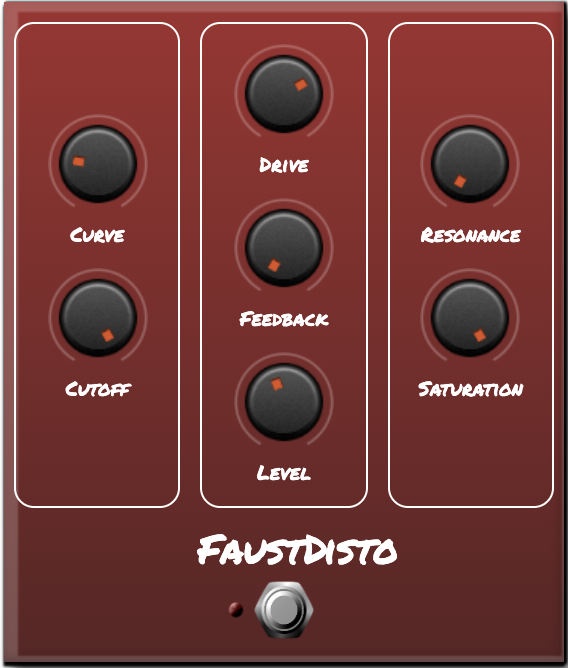
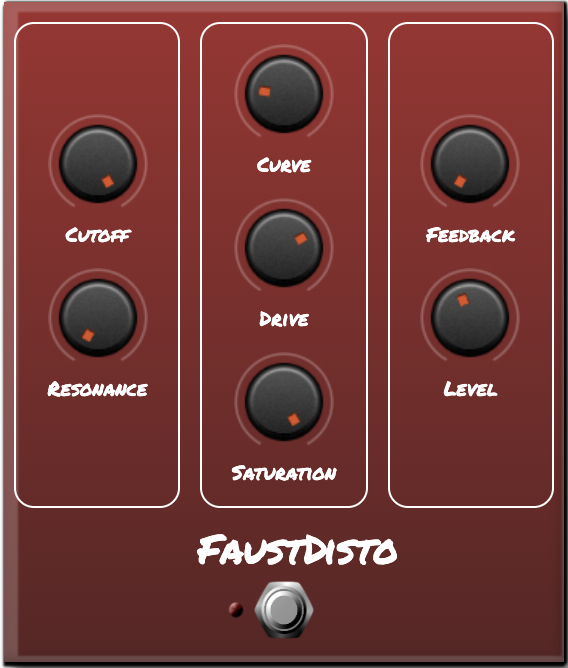
replace button and rename pedal

diff --git a/jordan-SINTES/FaustDisto/main.html b/jordan-SINTES/FaustDisto/main.html
@@ -1,5 +1,4 @@
-<link rel="stylesheet"
-          href="https://fonts.googleapis.com/css?family=Permanent+Marker">
+<link rel="stylesheet" href="https://fonts.googleapis.com/css?family=Permanent+Marker">
 <script
     src="https://wasabi.i3s.unice.fr/WebAudioPluginBank/bower_components/webaudio-controls2/webcomponents-lite.js"></script>
 <script>
@@ -57,7 +56,7 @@
         }
 
         .pedalLabel {
-            margin-left: 97px;
+            margin-left: 85px;
             top: 225px;
             font-size: 20px;
             /*{font}*/
@@ -93,53 +92,58 @@
     <div class="main">
         <div class="row">
             <div class="column">
-                <div class="knob" id="Curve">
-                    <webaudio-knob src="assets/img/knobs/Carbon.png" height="50" width="50" sprites="100"
-                        min="0.100000001" max="4" step="0.00100000005" value="1" id="/FaustDisto/Curve"
-                        style="height: 50px; margin-top: 35px;"></webaudio-knob>
-                    <div style="text-align:center; color:white;">Curve</div>
-                </div>
                 <div class="knob" id="Cutoff">
                     <webaudio-knob src="assets/img/knobs/Carbon.png" height="50" width="50" sprites="100" min="100"
-                        max="20000" step="1" value="20000" id="/FaustDisto/Cutoff" style="height: 50px; margin-top: 10px;">
+                        max="20000" step="1" value="20000" id="/FaustDisto/Cutoff"
+                        style="height: 50px; margin-top: 35px;">
                     </webaudio-knob>
                     <div style="text-align:center; color:white;">Cutoff</div>
                 </div>
-            </div>
-            <div class="column">
-                <div class="knob" id="Drive">
-                    <webaudio-knob src="assets/img/knobs/Carbon.png" height="50" width="50" sprites="100" min="-10"
-                        max="10" step="0.00100000005" value="4" id="/FaustDisto/Drive" style="height: 50px;">
-                    </webaudio-knob>
-                    <div style="text-align:center; color:white;">Drive</div>
-                </div>
-                <div class="knob" id="Feedback">
-                    <webaudio-knob src="assets/img/knobs/Carbon.png" height="50" width="50" sprites="100" min="-60"
-                        max="-24" step="1" value="-60" id="/FaustDisto/Feedback" style="height: 50px; margin-top: 10px;"></webaudio-knob>
-                    <div style="text-align:center; color:white;">Feedback</div>
-                </div>
-                <div class="knob" id="Level">
-                    <webaudio-knob src="assets/img/knobs/Carbon.png" height="50" width="50" sprites="100" min="-24"
-                        max="24" step="1" value="-3" id="/FaustDisto/Level" style="height: 50px; margin-top: 10px;"></webaudio-knob>
-                    <div style="text-align:center; color:white;">Level</div>
-                </div>
-            </div>
-            <div class="column">
                 <div class="knob" id="Resonance">
                     <webaudio-knob src="assets/img/knobs/Carbon.png" height="50" width="50" sprites="100" min="1"
-                        max="8" step="0.00100000005" value="1" id="/FaustDisto/Resonance" style="height: 50px; margin-top: 35px;">
+                        max="8" step="0.00100000005" value="1" id="/FaustDisto/Resonance"
+                        style="height: 50px; margin-top: 10px;">
                     </webaudio-knob>
                     <div style="text-align:center; color:white;">Resonance</div>
                 </div>
+            </div>
+            <div class="column">
+                <div class="knob" id="Curve">
+                    <webaudio-knob src="assets/img/knobs/Carbon.png" height="50" width="50" sprites="100"
+                        min="0.100000001" max="4" step="0.00100000005" value="1" id="/FaustDisto/Curve"
+                        style="height: 50px;"></webaudio-knob>
+                    <div style="text-align:center; color:white;">Curve</div>
+                </div>
+                <div class="knob" id="Drive">
+                    <webaudio-knob src="assets/img/knobs/Carbon.png" height="50" width="50" sprites="100" min="-10"
+                        max="10" step="0.00100000005" value="4" id="/FaustDisto/Drive" style="height: 50px; margin-top: 10px;">
+                    </webaudio-knob>
+                    <div style="text-align:center; color:white; ;">Drive</div>
+                </div>
                 <div class="knob" id="Saturation">
                     <webaudio-knob src="assets/img/knobs/Carbon.png" height="50" width="50" sprites="100" min="0"
-                        max="1" step="0.00100000005" value="1" id="/FaustDisto/Saturation" style="height: 50px; margin-top: 10px;">
+                        max="1" step="0.00100000005" value="1" id="/FaustDisto/Saturation"
+                        style="height: 50px; margin-top: 10px;">
                     </webaudio-knob>
                     <div style="text-align:center; color:white;">Saturation</div>
                 </div>
             </div>
+            <div class="column">
+                <div class="knob" id="Feedback">
+                    <webaudio-knob src="assets/img/knobs/Carbon.png" height="50" width="50" sprites="100" min="-60"
+                        max="-24" step="1" value="-60" id="/FaustDisto/Feedback"
+                        style="height: 50px; margin-top: 35px;"></webaudio-knob>
+                    <div style="text-align:center; color:white;">Feedback</div>
+                </div>
+                <div class="knob" id="Level">
+                    <webaudio-knob src="assets/img/knobs/Carbon.png" height="50" width="50" sprites="100" min="-24"
+                        max="24" step="1" value="-3" id="/FaustDisto/Level" style="height: 50px; margin-top: 10px;">
+                    </webaudio-knob>
+                    <div style="text-align:center; color:white;">Level</div>
+                </div>
+            </div>
         </div>
-        <span class="pedalLabel">FaustDisto</span>
+        <span class="pedalLabel">TemperDisto</span>
         <div class="switch" id="bypass">
             <webaudio-switch src="assets/img/switches/switch_1.png" height="32" width="60" id="switch1"
                 style="height: 50px;"></webaudio-switch>
